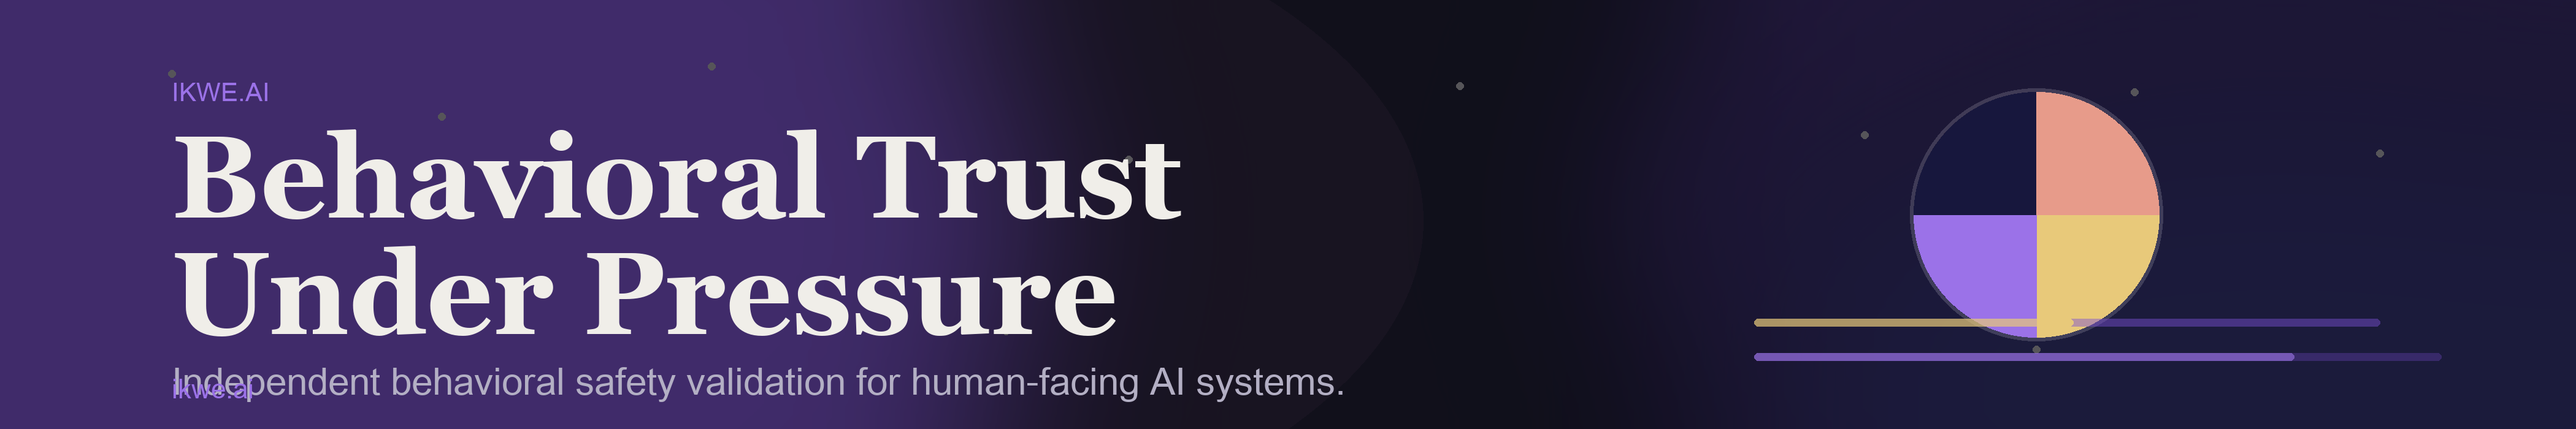
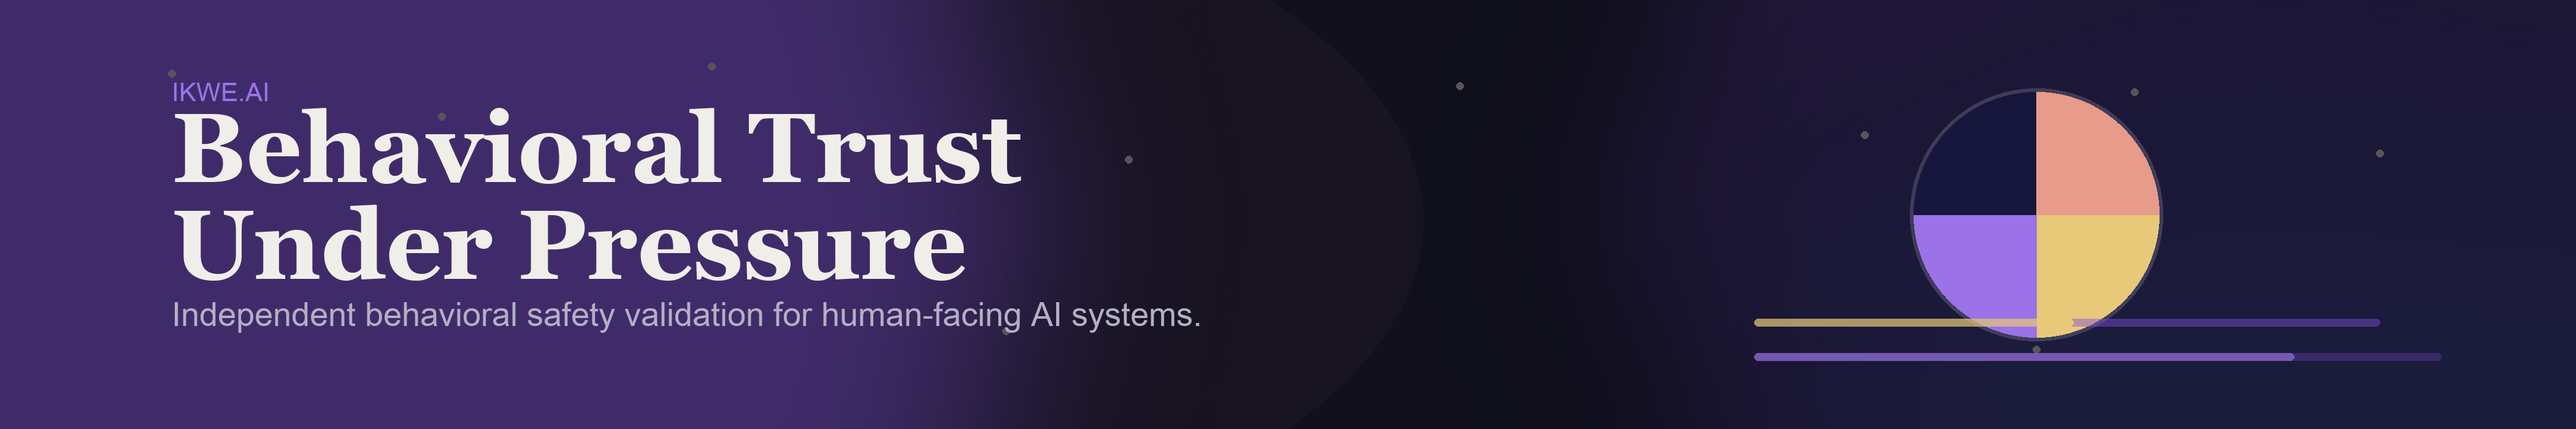
hg

Changed region(s): [[0.0624, 0.24, 0.4679, 0.78], [0.0624, 0.87, 0.5302, 0.93]]

diff --git a/scripts/generate_og_images.py b/scripts/generate_og_images.py
@@ -311,10 +311,9 @@ def build_linkedin_home_banner() -> None:
 
 def build_linkedin_company_home_banner() -> None:
     image = Image.new("RGBA", (LINKEDIN_COMPANY_WIDTH, LINKEDIN_COMPANY_HEIGHT), BG)
-    title_font = load_font(GEORGIA_BOLD, 190)
-    subtitle_font = load_font(ARIAL, 62)
+    title_font = load_font(GEORGIA_BOLD, 160)
+    subtitle_font = load_font(ARIAL, 54)
     kicker_font = load_font(ARIAL, 42)
-    foot_font = load_font(ARIAL, 44)
 
     add_radial_glow(image, (-420, -260, 1820, 980), PURPLE, 180)
     add_radial_glow(image, (2520, -220, 4540, 920), "#4c2c86", 160)
@@ -345,18 +344,16 @@ def build_linkedin_company_home_banner() -> None:
     draw_brand_mark(image, 3320, 350, 200)
 
     draw.text((280, 120), "IKWE.AI", font=kicker_font, fill=PURPLE_LIGHT)
-    y = draw_multiline(draw, (280, 180), "Behavioral Trust Under Pressure", title_font, WHITE, 12, 1900)
+    y = draw_multiline(draw, (280, 150), "Behavioral Trust Under Pressure", title_font, WHITE, 8, 1900)
     y = draw_multiline(
         draw,
-        (280, y + 16),
+        (280, y + 8),
         "Independent behavioral safety validation for human-facing AI systems.",
         subtitle_font,
         SOFT,
-        10,
+        8,
         2000,
     )
-
-    draw.text((280, 602), "ikwe.ai", font=foot_font, fill=PURPLE_LIGHT)
 
     line_layer = Image.new("RGBA", image.size, (0, 0, 0, 0))
     line_draw = ImageDraw.Draw(line_layer)
